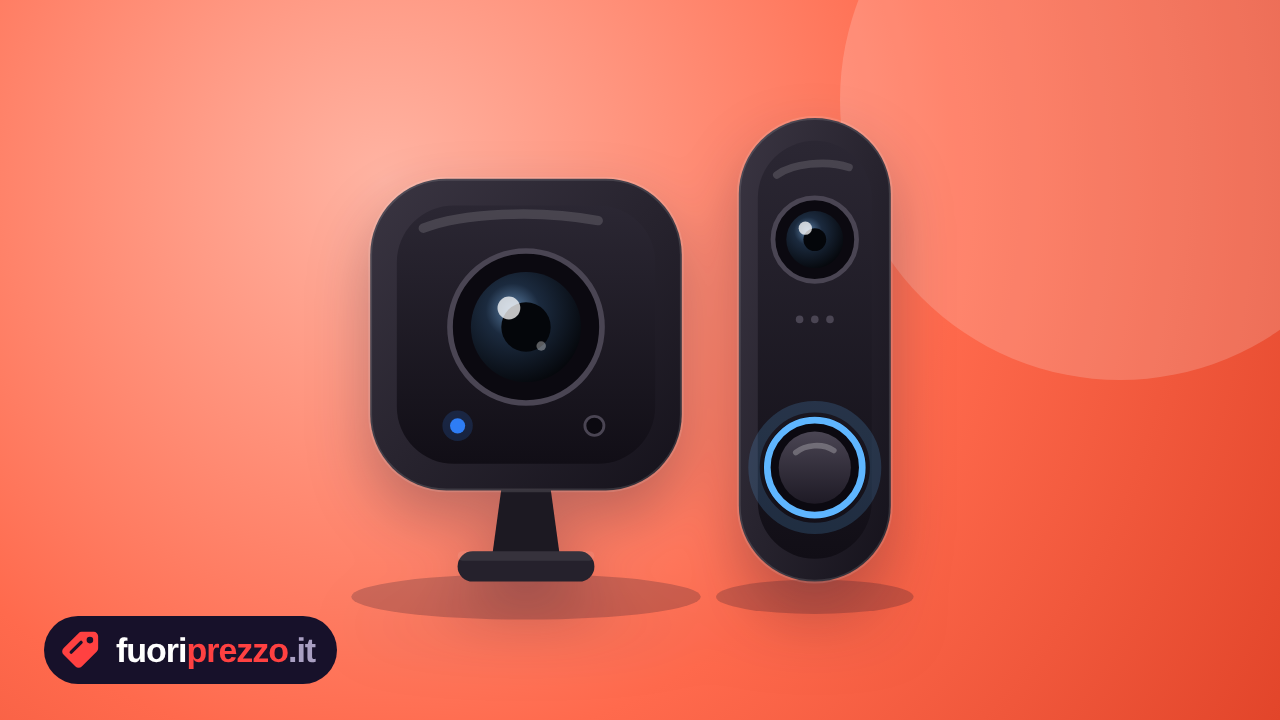
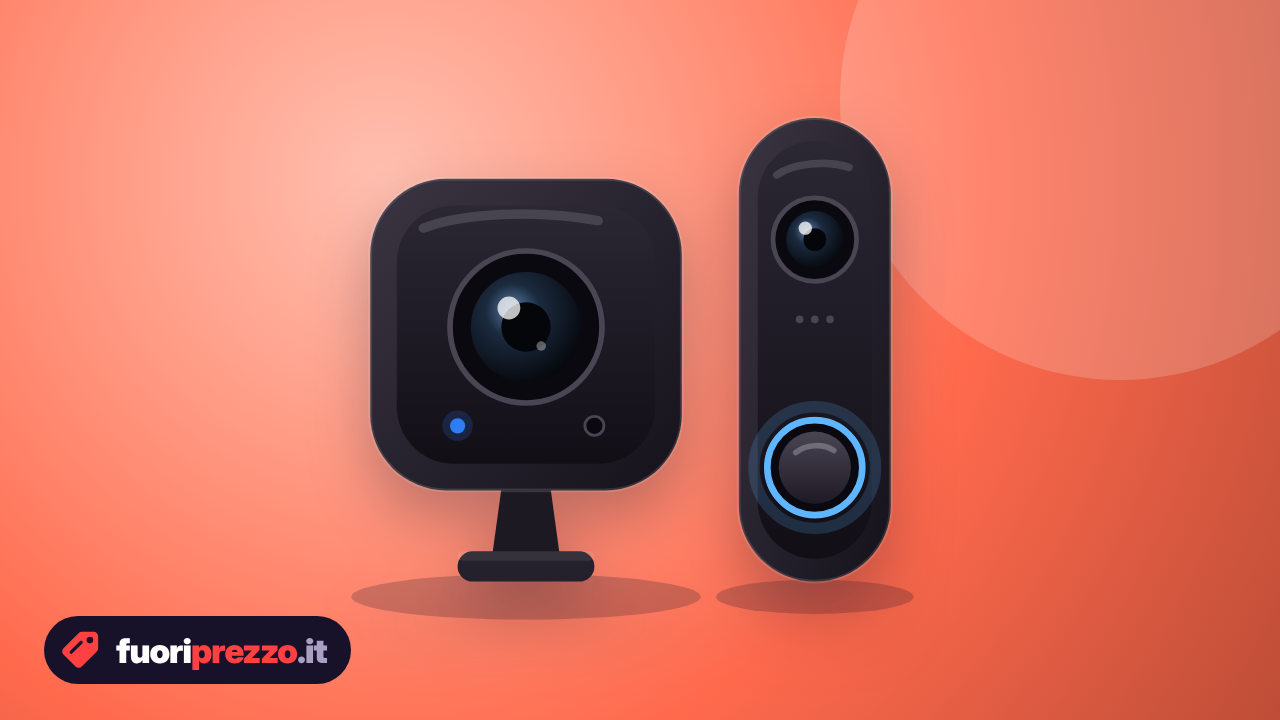
Modello grafico dei post social
Claude-Session: https://claude.ai/code/session_0197aieN2HT3w3YK58ywdTmH

Changed region(s): [[0.8438, 0.4583, 1.0, 1.0], [0.0938, 0.8556, 0.2812, 0.9472]]

diff --git a/tools/render_post.py b/tools/render_post.py
@@ -1,0 +1,56 @@
+"""Crea le immagini social di un'offerta: img/<ASIN>.png (Telegram, 1280x720) e img/<ASIN>-ig.jpg (Instagram, 1080x1350).
+Uso: python3 tools/render_post.py ASIN   (dalla cartella del sito)"""
+import json, subprocess, sys, datetime
+from zoneinfo import ZoneInfo
+from playwright.sync_api import sync_playwright
+
+asin = sys.argv[1]
+data = json.loads(subprocess.check_output(['node', '-e', """
+const vm=require('vm'),fs=require('fs');const ctx={window:{}};vm.createContext(ctx);
+vm.runInContext(fs.readFileSync('data/offerte.js','utf8'),ctx);
+console.log(JSON.stringify({cfg:ctx.window.FP_CONFIG,offers:ctx.window.FP_OFFERTE}))"""]))
+o = next(x for x in data['offers'] if x['asin'] == asin)
+CAT_COLORS = {'elettronica':'#FF6A4D','informatica':'#9C8CFF','casa':'#FFC93D','cucina':'#FF9356','sport':'#3DD9B6','giochi':'#62BDFF','bellezza':'#EC86FF','fai-da-te':'#ADDC45'}
+col = CAT_COLORS.get(o['categoria'], '#FF6A4D')
+ill = open(o['illustrazione']).read() if o.get('illustrazione') else ''
+eur = lambda v: f"{v:,.2f} €".replace(',', 'X').replace('.', ',').replace('X', '.')
+ref = o.get('prezzoRiferimento'); disc = round((ref - o['prezzo']) / ref * 100) if ref else 0
+chk = datetime.datetime.fromisoformat(o['controllato']).astimezone(ZoneInfo('Europe/Rome'))
+mesi = ['gennaio','febbraio','marzo','aprile','maggio','giugno','luglio','agosto','settembre','ottobre','novembre','dicembre']
+when = f"{chk.day} {mesi[chk.month-1]} {chk.year} alle {chk:%H:%M}"
+TAG = '<svg viewBox="0 0 40 40"><path d="M21.5 3.5h11a4 4 0 0 1 4 4v11a4 4 0 0 1-1.2 2.8L21.6 35a4 4 0 0 1-5.7 0L5 24.1a4 4 0 0 1 0-5.7L18.7 4.7a4 4 0 0 1 2.8-1.2z" fill="#FF4141"/><circle cx="29" cy="11" r="3" fill="#17112A"/><path d="M12 22l9-9" stroke="#17112A" stroke-width="3" stroke-linecap="round"/></svg>'
+BRAND = f'<div class="brand">{TAG}<span>fuori<b>prezzo</b><i>.it</i></span></div>'
+BASE = f"""body{{margin:0;font-family:'Inter Display','Inter',sans-serif}} .bg{{background:radial-gradient(circle at 30% 25%,color-mix(in oklab,{col} 45%,white),{col} 58%,color-mix(in oklab,{col} 80%,black))}}
+.brand{{display:inline-flex;align-items:center;gap:14px;background:#17112A;color:#fff;padding:12px 24px 12px 14px;border-radius:999px;font-weight:900;font-size:34px;letter-spacing:-.03em}}
+.brand svg{{width:44px;height:44px}} .brand b{{color:#FF4141;font-weight:900}} .brand i{{font-style:normal;color:#A99FC2}}"""
+
+tg = f"""<html><head><style>{BASE}
+.c{{width:1280px;height:720px;position:relative;overflow:hidden}} .c::before{{content:"";position:absolute;width:560px;height:560px;border-radius:50%;right:-120px;top:-180px;background:rgba(255,255,255,.18)}}
+.ill{{position:absolute;left:50%;top:48%;width:760px;transform:translate(-50%,-50%);filter:drop-shadow(0 28px 30px rgba(23,17,42,.28))}} .brand{{position:absolute;left:44px;bottom:36px}}
+</style></head><body><div class="c bg"><div class="ill">{ill}</div>{BRAND}</div></body></html>"""
+
+ig = f"""<html><head><style>{BASE}
+.p{{position:relative;width:1080px;height:1350px;display:flex;flex-direction:column;background:#17112A}}
+.top{{position:relative;height:760px;overflow:hidden;border-radius:0 0 56px 56px}} .top::before{{content:"";position:absolute;width:520px;height:520px;border-radius:50%;right:-140px;top:-160px;background:rgba(255,255,255,.2)}}
+.ill{{position:absolute;left:50%;top:52%;width:820px;transform:translate(-50%,-50%);filter:drop-shadow(0 30px 34px rgba(23,17,42,.3))}}
+.top .brand{{position:absolute;left:48px;top:44px}}
+.flag{{position:absolute;right:48px;top:44px;background:#FF4141;color:#fff;font-weight:900;font-size:30px;letter-spacing:.06em;text-transform:uppercase;padding:14px 24px;border-radius:999px}}
+.sticker{{position:absolute;right:56px;top:700px;z-index:2;background:#FFD43B;color:#17112A;font-weight:900;font-size:76px;letter-spacing:-.04em;padding:14px 30px;border-radius:26px;transform:rotate(-6deg);box-shadow:8px 8px 0 #0A0712}}
+.bot{{flex:1;padding:70px 56px 44px;color:#F4F0FF;display:flex;flex-direction:column;gap:18px}}
+.t{{font-weight:800;font-size:46px;line-height:1.08;letter-spacing:-.03em;max-width:820px}}
+.pr{{display:flex;align-items:flex-end;gap:26px;margin-top:6px}} .now{{font-weight:900;font-size:120px;line-height:.85;letter-spacing:-.05em;color:#FF4141}}
+.was{{font-size:44px;color:#A99FC2;text-decoration:line-through;text-decoration-color:#FF4141;text-decoration-thickness:4px;padding-bottom:6px}}
+.ref{{font-size:26px;color:#A99FC2}} .foot{{margin-top:auto;display:flex;justify-content:space-between;align-items:center;font-size:26px;color:#A99FC2;border-top:2px dashed #2F2744;padding-top:22px}} .foot b{{color:#FFD43B}}
+</style></head><body><div class="p"><div class="top bg"><div class="ill">{ill}</div>{BRAND}{f'<div class="flag">{o["etichetta"]}</div>' if o.get('etichetta') else ''}</div>{f'<div class="sticker">−{disc}%</div>' if disc>0 else ''}
+<div class="bot"><div class="t">{o.get('titoloBreve') or o['titolo']}</div>
+<div class="pr"><span class="now">{eur(o['prezzo'])}</span>{f'<span class="was">{eur(ref)}</span>' if ref else ''}</div>
+{f'<div class="ref">{eur(ref)} = {o.get("tipoRiferimento","prezzo di riferimento")}</div>' if ref else ''}
+<div class="foot"><span>Prezzo verificato il {when}</span><b>Link in bio →</b></div></div></div></body></html>"""
+
+with sync_playwright() as p:
+    b = p.chromium.launch()
+    for html, w, h, out, kw in [(tg, 1280, 720, f'img/{asin}.png', {}), (ig, 1080, 1350, f'img/{asin}-ig.jpg', {'type': 'jpeg', 'quality': 92})]:
+        pg = b.new_page(viewport={'width': w, 'height': h}); pg.set_content(html); pg.wait_for_timeout(300)
+        pg.screenshot(path=out, **kw); pg.close()
+    b.close()
+print('ok', asin)
